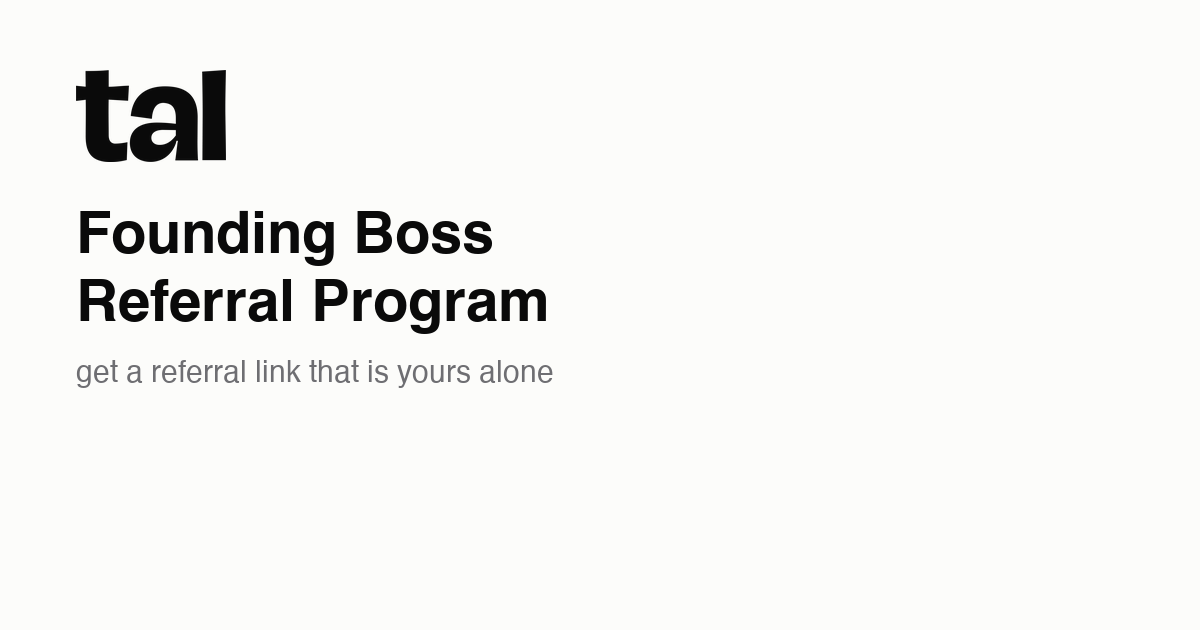
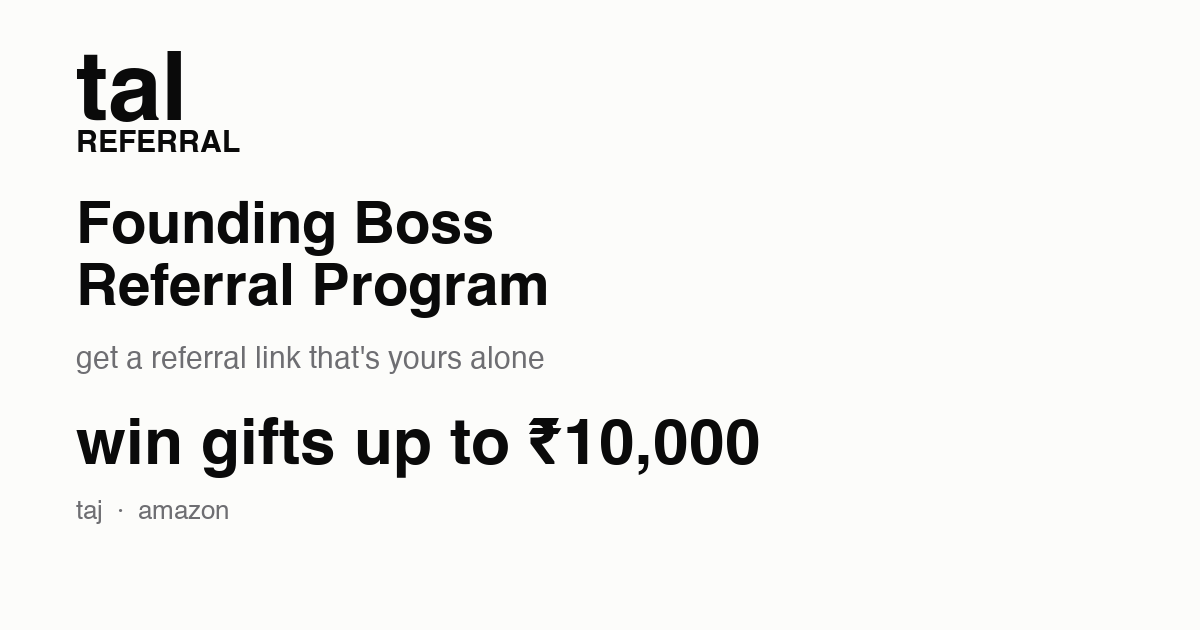
Polish the L2 share flow and page 1 copy
- Share text is now the actual pitch ("I'm hiring on Tal...") with the
  referral link on its own line below it, for both X and LinkedIn.
- Fix a hover bug on the share buttons: the generic button:hover rule
  outranked .share-btn:hover on specificity, so hovering painted the
  background black without also flipping the text, leaving black text
  on a black button. Bumped specificity and set the text white too.
- Share buttons now open a plain new tab (no width/height popup
  params), which is both smoother on desktop and usable on mobile,
  where a fixed-size popup either gets ignored or renders unusably
  small.
- New OG/Twitter preview image matching referral-maxx's card style
  (tal mark, REFERRAL badge, headline, gift amount).
- Page 1 heading lowercased and the description reworded to spell out
  attribution more plainly, so people filling the form know exactly
  what "counted to you" means before they hand over their details.

diff --git a/index.html b/index.html
@@ -119,7 +119,10 @@
     color:#0A0A0A; background:#FFFFFF; border:1px solid rgba(10,10,10,0.16); border-radius:999px;
     cursor:pointer; transition:background-color 120ms ease, transform 120ms ease;
   }
-  .share-btn:hover{background:rgba(10,10,10,0.04); transform:translateY(-1px)}
+  /* Doubled class beats the generic button:hover rule above, which otherwise
+     wins on specificity (element + 2 pseudo-classes) and paints this black
+     without also flipping the text, leaving black-on-black. */
+  .share-btn.share-btn:hover{background:#0A0A0A; color:#FFFFFF; transform:translateY(-1px)}
   .share-btn:focus-visible{outline:none; box-shadow:0 0 0 3px rgba(10,10,10,0.18)}
   .share-btn svg{flex:0 0 auto}
 
@@ -137,10 +140,10 @@
 
   <!-- ── page 1: the form ──────────────────────────────────────── -->
   <section id="view-form">
-    <h1 class="serif">Founding Boss Referral Program</h1>
-    <p class="lede">fill in your details and we will generate a referral link that is
-      yours alone. share it with the bosses you know, and everyone who joins through it
-      is counted to you.</p>
+    <h1 class="serif">founding boss referral program</h1>
+    <p class="lede">fill in your details and we'll generate a referral link that is
+      yours alone. share it with the bosses you know, and every eligible boss who joins
+      through that link will be attributed to you.</p>
 
     <div class="rule"></div>
 

diff --git a/app.js b/app.js
@@ -197,19 +197,22 @@
     }
   });
 
-  /* Same p.s. copy as the box above it, so the post reads like the page. The
-     link rides inside the text itself rather than a separate url param -
+  /* The link rides inside the text itself rather than a separate url param -
      X folds a bare url param into the text anyway, and this way the message
      still reads right if a platform only keeps one of the two. */
   function shareText() {
     var link = el('link').value.trim();
-    var msg = 'If you like Tal, share it with other bosses you know, and you can win ' +
-      'gifts up to ₹10,000, including Taj and Amazon.';
-    return link ? msg + ' ' + link : msg;
+    var msg = "I'm hiring on Tal. It's the app where bosses of Bangalore can hire great talent.";
+    return link ? msg + '\n' + link : msg;
   }
 
+  /* A plain new tab, not a popup window: no width/height/left/top means the
+     browser opens it exactly like a normal clicked link, which is what looks
+     right and behaves right on a phone - a fixed-size popup either gets
+     ignored in favour of a full tab there anyway, or renders too small to
+     use. */
   function openShare(url) {
-    window.open(url, '_blank', 'noopener,noreferrer,width=600,height=640');
+    window.open(url, '_blank', 'noopener,noreferrer');
   }
 
   el('share-x').addEventListener('click', function () {
